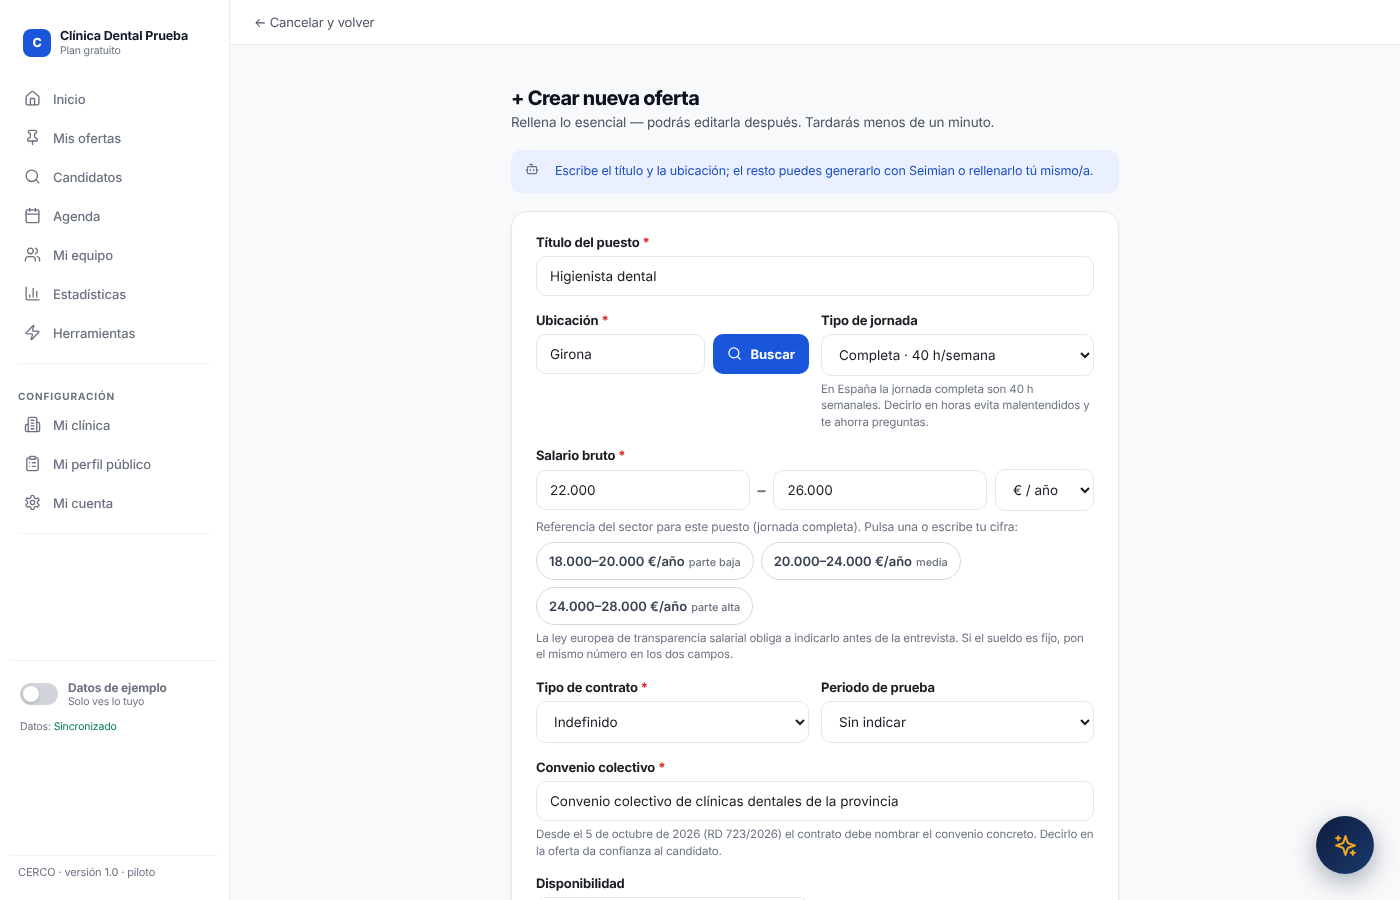
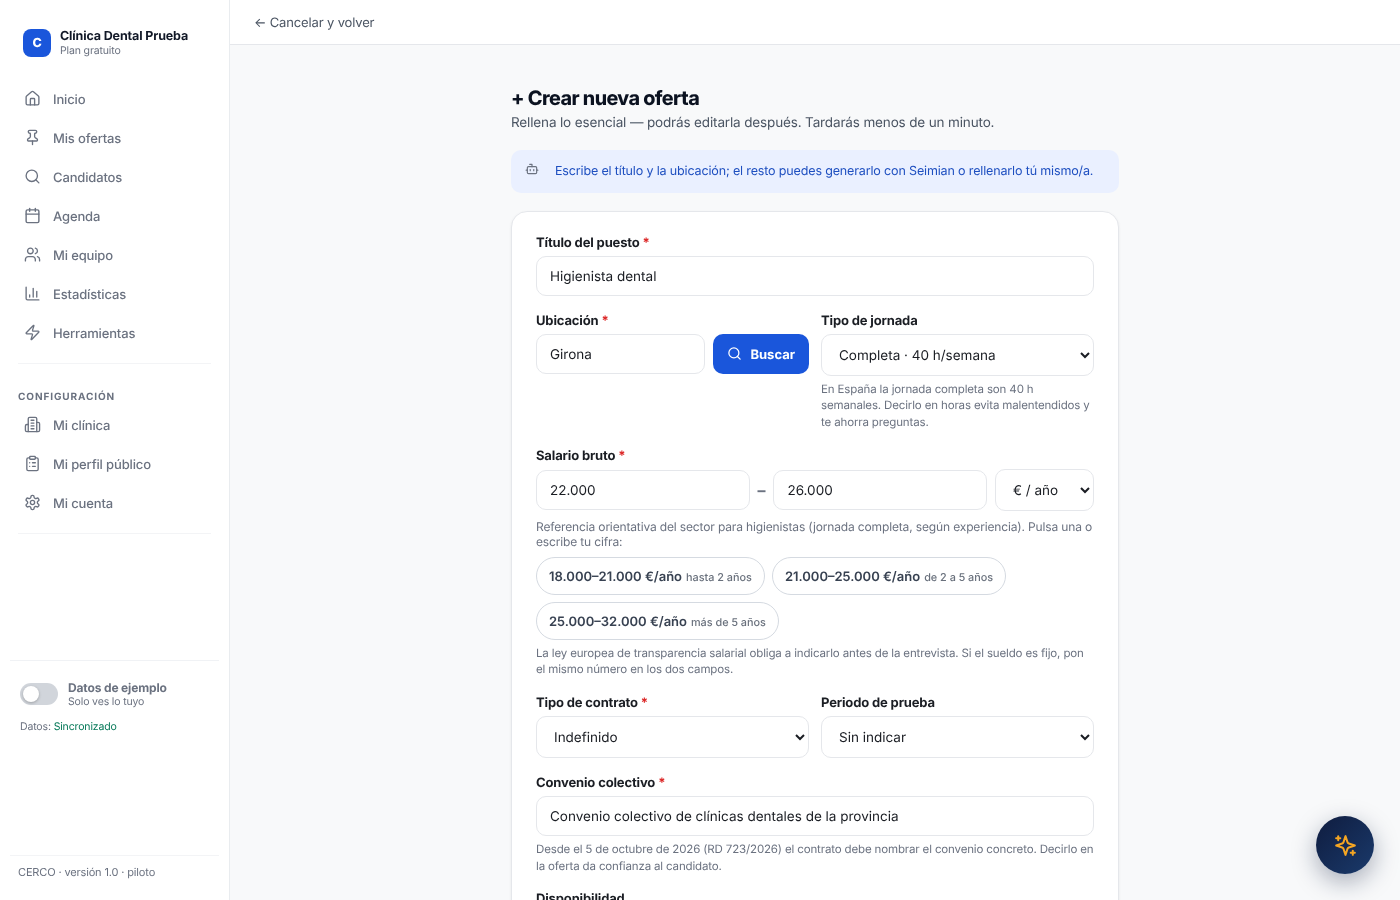
Sueldos de referencia para todas las profesiones, en un solo archivo
Las cifras están ahora en un solo sitio, public/comun/sueldos.js, que
usan los dos lados: las sugerencias al crear una oferta, la comparación
cuando ya hay sueldo escrito, Seimian de la clínica y la guía salarial
del profesional. Antes había cuatro copias con solo 5-7 grupos, y
«Cirujano/a oral y maxilofacial» no tenía ninguna.
- Tabla aprobada por Asish: tres tramos por experiencia (hasta 2 años,
  de 2 a 5, más de 5) para 12 profesiones; asesor/a de pacientes,
  gerente y prostodoncista, sin sugerencia por ahora.
- Se presenta como «Referencia orientativa del sector», y en
  odontología con la nota «Muchos cobran un porcentaje de lo que
  facturan.».
Prueba nueva (66-sueldos), que fallaba antes. 9 capturas actualizadas
(solo cambian el texto y las cifras de la referencia).

Claude-Session: https://claude.ai/code/session_01L5qSpH5ECCjMh1xfSpjWDJ

Changed region(s): [[0.3686, 0.56, 0.7679, 1.0]]

diff --git a/public/comun/sueldos.js b/public/comun/sueldos.js
@@ -1,0 +1,68 @@
+/* ================================================================
+   CERCO · SUELDOS DE REFERENCIA (un solo sitio para las cifras)
+   ----------------------------------------------------------------
+   Referencia orientativa del sector, en euros brutos al año y para
+   jornada completa. Tres tramos por experiencia:
+     [hasta 2 años], [de 2 a 5 años], [más de 5 años]
+   Para cambiar una cifra, cámbiala aquí: la usan los dos lados
+   (sugerencias al crear una oferta, la comparación del sueldo y la
+   guía salarial del profesional).
+   Sin cifras (bandas: null) = sin sugerencia por ahora.
+   «odonto: true» añade la nota de que muchos cobran un porcentaje.
+   Fuentes (revisadas en noviembre de 2026): EmpleoDental, Indeed,
+   Glassdoor, Laboria, Nubidoc, blogs de clínicas y convenios
+   provinciales. Ver PROGRESO.md.
+   ================================================================ */
+window.CERCO_SUELDOS = {
+  titulo: 'Referencia orientativa del sector',
+  notaOdonto: 'Muchos cobran un porcentaje de lo que facturan.',
+  tramos: ['hasta 2 años', 'de 2 a 5 años', 'más de 5 años'],
+  // El orden importa: se mira de arriba abajo y vale el primero que encaja con el puesto.
+  puestos: [
+    { puesto: 'Cirujano/a oral y maxilofacial', plural: 'cirujanos orales', re: /ciruj|maxilofac/i, odonto: true,
+      bandas: [[60000, 75000], [75000, 90000], [90000, 120000]] },
+    { puesto: 'Implantólogo/a', plural: 'implantólogos', re: /implant/i, odonto: true,
+      bandas: [[45000, 60000], [60000, 75000], [75000, 100000]] },
+    { puesto: 'Periodoncista', plural: 'periodoncistas', re: /periodon/i, odonto: true,
+      bandas: [[35000, 45000], [45000, 55000], [55000, 70000]] },
+    { puesto: 'Endodoncista', plural: 'endodoncistas', re: /endodon/i, odonto: true,
+      bandas: [[30000, 40000], [40000, 50000], [50000, 60000]] },
+    { puesto: 'Odontopediatra', plural: 'odontopediatras', re: /odontopediat|pediatr/i, odonto: true,
+      bandas: [[32000, 40000], [40000, 50000], [50000, 65000]] },
+    { puesto: 'Prostodoncista', plural: 'prostodoncistas', re: /prostodon/i, odonto: true,
+      bandas: null },
+    { puesto: 'Ortodoncista', plural: 'ortodoncistas', re: /ortodon/i, odonto: true,
+      bandas: [[35000, 50000], [50000, 65000], [65000, 85000]] },
+    { puesto: 'Protésico/a dental', plural: 'protésicos', re: /prot[eé]sic|laboratorio/i,
+      bandas: [[17000, 20000], [20000, 23000], [23000, 27000]] },
+    { puesto: 'Higienista dental', plural: 'higienistas', re: /higien/i,
+      bandas: [[18000, 21000], [21000, 25000], [25000, 32000]] },
+    { puesto: 'Auxiliar de clínica dental', plural: 'auxiliares', re: /auxiliar|asistente|ayudante/i,
+      bandas: [[15000, 17500], [17500, 20000], [20000, 23000]] },
+    { puesto: 'Asesor/a de pacientes', plural: 'asesores de pacientes', re: /asesor/i,
+      bandas: null },
+    { puesto: 'Recepcionista de clínica dental', plural: 'recepcionistas', re: /recepci|atenci[oó]n al paciente|administrativ/i,
+      bandas: [[16000, 18500], [18500, 21000], [21000, 25000]] },
+    { puesto: 'Gerente de clínica dental', plural: 'gerentes', re: /gerent|gerencia|direct/i,
+      bandas: null },
+    { puesto: 'Coordinador/a de clínica', plural: 'coordinadores', re: /coordina|responsable/i,
+      bandas: [[22000, 28000], [28000, 35000], [32000, 42000]] },
+    { puesto: 'Odontólogo/a general', plural: 'odontólogos', re: /odont|dentist|est[eé]tica/i, odonto: true,
+      bandas: [[30000, 40000], [40000, 55000], [55000, 70000]] }
+  ]
+};
+// La referencia de un puesto (por su título), o null si no tiene cifras.
+window.CERCO_sueldoDe = function(titulo){
+  var t = String(titulo || '');
+  if(!t.trim()) return null;
+  var l = window.CERCO_SUELDOS.puestos;
+  for(var i = 0; i < l.length; i++){
+    if(l[i].re.test(t)) return l[i].bandas ? l[i] : null;
+  }
+  return null;
+};
+// El rango completo (del mínimo del primer tramo al máximo del último)
+window.CERCO_sueldoRango = function(titulo){
+  var r = window.CERCO_sueldoDe(titulo); if(!r) return null;
+  return [r.bandas[0][0], r.bandas[r.bandas.length - 1][1]];
+};

diff --git a/public/clinica/11-seimian.js b/public/clinica/11-seimian.js
@@ -21,7 +21,8 @@
   function cerrar(){ return "var m=document.getElementById('global-chat-modal');if(m)m.remove();"; }
   function ficha(c){ return btn('Abrir a ' + e(nom(c)), cerrar() + "showScreen('portal');setTimeout(function(){abrirFichaCandidato('" + e(c.id) + "')},350)"); }
   function nota(id){ var v = ((leer('cerco_valoraciones', {})[id] || {}).v || []).filter(function(x){ return x > 0; }); return v.length ? v.reduce(function(a,b){ return a+b; }, 0) / v.length : null; }
-  var REF = { hig:['higienista',18000,32000], aux:['auxiliar',15000,23000], recep:['recepción',15000,24000], odo:['odontólogo/a',30000,90000], orto:['ortodoncista',30000,90000] };
+  // Las cifras están en un solo sitio: comun/sueldos.js. [plural, mínimo, máximo, odontología]
+  function REFde(t){ var d = window.CERCO_sueldoDe ? CERCO_sueldoDe(t) : null, r = d && CERCO_sueldoRango(t); return r ? [d.plural, r[0], r[1], d.odonto] : null; }
   var EXP = ['sin','menos de 1','1','2','3','5','más de 5','10'];
   function expN(c){ if(c.sinExperiencia) return 0; var t = norm(c.experiencia), m = t.match(/\d+/); var n = m ? +m[0] : 0; return /mas de/.test(t) ? n + 1 : (/menos/.test(t) ? 0.5 : n); }
 
@@ -103,7 +104,7 @@
     if(!l.length) return 'No tienes ninguna oferta publicada. Las que más solicitudes reciben dejan claro cinco cosas: sueldo, horario, tareas, contrato y cómo es el proceso.<br>' + btn('Crear oferta', cerrar() + "showScreen('crear-oferta')");
     var h = '';
     l.slice(0,4).forEach(function(o){
-      var n = porOferta(o.id).length, f = faltaOferta(o), g = REF[grupo(o.titulo)];
+      var n = porOferta(o.id).length, f = faltaOferta(o), g = REFde(o.titulo);
       h += '<b>' + e(o.titulo || 'Sin título') + '</b> · ' + n + ' solicitud' + (n === 1 ? '' : 'es') + '<br>';
       if(f.length) h += '• Le falta ' + f.join(', ') + '. Cada cosa que falta es gente que no solicita.<br>'; else h += '• Está completa.<br>';
       var nums = (String(o.salario || '').match(/\d{1,3}(?:[.\s]\d{3})+|\d{4,6}/g) || []).map(function(x){ return +x.replace(/[.\s]/g,''); }).filter(function(x){ return x >= 8000; });
@@ -112,10 +113,11 @@
     return h + btn('Ver mis ofertas', cerrar() + "showScreen('ofertes')");
   }
   function rSueldo(q){
-    var k = /higien/.test(q) ? 'hig' : /auxiliar/.test(q) ? 'aux' : /recep/.test(q) ? 'recep' : /ortodon/.test(q) ? 'orto' : /odontol|dentista/.test(q) ? 'odo' : null;
-    var f = function(g){ return '<b>' + g[0].charAt(0).toUpperCase() + g[0].slice(1) + '</b>: ' + g[1].toLocaleString('es-ES') + '–' + g[2].toLocaleString('es-ES') + ' € brutos/año'; };
-    return (k ? f(REF[k]) : ['hig','aux','recep','odo'].map(function(x){ return f(REF[x]); }).join('<br>'))
-      + '.<br>Es una referencia orientativa del sector a jornada completa; el convenio de tu provincia marca el mínimo. El sueldo es lo primero que mira un candidato: 6 de cada 10 no solicitan si no aparece.';
+    var f = function(g){ return '<b>' + g[0].charAt(0).toUpperCase() + g[0].slice(1) + '</b>: ' + g[1].toLocaleString('es-ES') + '–' + g[2].toLocaleString('es-ES') + ' € brutos/año' + (g[3] ? ' (' + CERCO_SUELDOS.notaOdonto.replace(/\.$/, '').toLowerCase() + ')' : ''); };
+    var uno = REFde(q);
+    var todos = (window.CERCO_SUELDOS ? CERCO_SUELDOS.puestos : []).filter(function(p){ return p.bandas; }).map(function(p){ return REFde(p.puesto); }).filter(Boolean);
+    return (uno ? f(uno) : todos.map(f).join('<br>'))
+      + '.<br>' + (window.CERCO_SUELDOS ? CERCO_SUELDOS.titulo : 'Referencia orientativa del sector') + ', a jornada completa; el convenio de tu provincia marca el mínimo. El sueldo es lo primero que mira un candidato: 6 de cada 10 no solicitan si no aparece.';
   }
   function rPreguntas(c){
     var g = grupo((c && (c.profesion || c.ofertaTitulo)) || ((activas()[0] || {}).titulo));

diff --git a/pruebas/e2e/66-sueldos.spec.js b/pruebas/e2e/66-sueldos.spec.js
@@ -1,0 +1,46 @@
+// Sueldos de referencia: salen en todas las profesiones que tienen cifras (también
+// cirugía), como «Referencia orientativa del sector», con la nota del porcentaje en
+// odontología, y salen del mismo sitio (comun/sueldos.js) en los dos lados.
+const { test, expect, nuevaVentana, vaciarEmulador } = require('../apoyo/entorno');
+const A = require('../apoyo/acciones');
+
+test('Nueva oferta: sugerencias de sueldo en todas las profesiones con cifras', async ({ browser }, testInfo) => {
+  test.skip(testInfo.project.name !== 'ordenador', 'basta con un tamaño de pantalla');
+  await vaciarEmulador();
+  const v = await nuevaVentana(browser, testInfo), c = v.page;
+  await A.registrarClinica(c, 'sueldos@prueba.es');
+  await A.configurarClinica(c);
+  await c.evaluate(() => showScreen('crear-oferta'));
+  const puestos = await c.evaluate(() => CERCO_SUELDOS.puestos.map((p) => ({ puesto: p.puesto, bandas: p.bandas, odonto: !!p.odonto })));
+  expect(puestos.length).toBe(15);
+  const sug = c.locator('#co-sal-sug');
+  for (const p of puestos) {
+    await c.fill('#co-titulo', p.puesto);
+    if (!p.bandas) { await expect(sug.locator('button')).toHaveCount(0); continue; }
+    await expect(sug).toContainText('Referencia orientativa del sector');
+    const botones = sug.locator('button');
+    await expect(botones).toHaveCount(3);
+    for (let k = 0; k < 3; k++) {
+      const [a, b] = p.bandas[k], f = (x) => x.toLocaleString('es-ES');
+      await expect(botones.nth(k)).toContainText(`${f(a)}–${f(b)} €/año`);
+    }
+    if (p.odonto) await expect(sug).toContainText('Muchos cobran un porcentaje de lo que facturan.');
+    else await expect(sug).not.toContainText('porcentaje');
+  }
+  // Cirugía, el caso que no salía
+  await c.fill('#co-titulo', 'Cirujano/a oral y maxilofacial');
+  await expect(sug.locator('button')).toHaveCount(3);
+  // Al pulsar un tramo, se rellena el sueldo
+  await sug.locator('button').first().click();
+  await expect(c.locator('#co-sal-min')).toHaveValue('60.000');
+  await expect(c.locator('#co-sal-max')).toHaveValue('75.000');
+  expect(c.erroresPagina).toEqual([]);
+
+  // El profesional ve la misma referencia (sale del mismo archivo)
+  const w = await nuevaVentana(browser, testInfo), p = w.page;
+  await p.goto('/candidato.html');
+  await p.waitForFunction(() => typeof txtGuia === 'function' && window.CERCO_SUELDOS);
+  const txt = await p.evaluate(() => txtGuia(guiaSalarial('Higienista dental', null), 'Higienista dental'));
+  expect(txt).toBe('Referencia orientativa del sector para higienistas: entre 18k y 32k € brutos al año.');
+  await v.context.close(); await w.context.close();
+});

diff --git a/public/clinica/13-formulario-oferta.js b/public/clinica/13-formulario-oferta.js
@@ -28,15 +28,7 @@
     ['Gerente de clínica dental','Recepción y gestión'],
     ['Protésico/a dental','Laboratorio']
   ];
-  var BANDAS = {
-    hig:[[18000,20000],[20000,24000],[24000,28000]],
-    aux:[[15500,17500],[17500,20000],[20000,23000]],
-    recep:[[15500,18000],[18000,21000],[21000,24000]],
-    odo:[[30000,40000],[40000,55000],[55000,70000]],
-    orto:[[35000,50000],[50000,65000],[65000,85000]],
-    coord:[[20000,24000],[24000,28000],[28000,34000]],
-    prot:[[17000,20000],[20000,24000],[24000,30000]]
-  };
+  // Las cifras están en un solo sitio: comun/sueldos.js
   function grupo(t){ try{ return CERCO_grupo(t).k; }catch(x){ return 'otros'; } }
   function disparar(el){ if(!el) return; el.dispatchEvent(new Event('input', {bubbles:true})); el.dispatchEvent(new Event('change', {bubbles:true})); }
 
@@ -101,11 +93,11 @@
     var fila = document.querySelector('#screen-crear-oferta .sal-row'); if(!fila) return;
     var box = $('co-sal-sug');
     if(!box){ box = document.createElement('div'); box.id = 'co-sal-sug'; fila.parentElement.insertBefore(box, fila.nextSibling); }
-    var b = BANDAS[grupo(($('co-titulo') || {}).value)];
+    var ref = window.CERCO_sueldoDe ? CERCO_sueldoDe(($('co-titulo') || {}).value) : null, b = ref && ref.bandas;
     if(!b){ box.innerHTML = ''; return; }
     var mi = String(($('co-sal-min') || {}).value || '').replace(/\D/g,''), ma = String(($('co-sal-max') || {}).value || '').replace(/\D/g,''), per = ($('co-sal-per') || {}).value;
-    var nombres = ['parte baja','media','parte alta'];
-    box.innerHTML = '<div style="font-size:12px;color:#6B7280;margin-top:8px;">Referencia del sector para este puesto (jornada completa). Pulsa una o escribe tu cifra:</div><div class="sal-sug" role="group" aria-label="Rangos de referencia">'
+    var nombres = CERCO_SUELDOS.tramos;
+    box.innerHTML = '<div style="font-size:12px;color:#6B7280;margin-top:8px;">' + CERCO_SUELDOS.titulo + ' para ' + ref.plural + ' (jornada completa, según experiencia).' + (ref.odonto ? ' ' + CERCO_SUELDOS.notaOdonto : '') + ' Pulsa una o escribe tu cifra:</div><div class="sal-sug" role="group" aria-label="Rangos de referencia">'
       + b.map(function(r, k){ var on = per === 'año' && +mi === r[0] && +ma === r[1]; return '<button type="button" aria-pressed="' + on + '" class="' + (on ? 'on' : '') + '" onclick="CERCO_salBanda(' + r[0] + ',' + r[1] + ')">' + num(r[0]) + '–' + num(r[1]) + ' €/año<small>' + nombres[k] + '</small></button>'; }).join('')
       + '</div>';
   }

diff --git a/public/clinica/10-lo-que-pide-el-mercado.js b/public/clinica/10-lo-que-pide-el-mercado.js
@@ -97,7 +97,8 @@
     prot:['Prótesis fija','Prótesis removible','CAD/CAM','Cerámica'],
     otros:['Atención al paciente','Trabajo en equipo','Organización del día']
   };
-  var REF = { hig:['higienistas',18000,32000], aux:['auxiliares',15000,23000], recep:['recepción',15000,24000], odo:['odontólogos',30000,90000], orto:['ortodoncistas',30000,90000] };
+  // Las cifras están en un solo sitio: comun/sueldos.js
+  function REFde(t){ var d = window.CERCO_sueldoDe ? CERCO_sueldoDe(t) : null, r = d && CERCO_sueldoRango(t); return r ? [d.plural, r[0], r[1], d.odonto] : null; }
   var OF = { turnos:[], funciones:[], proceso:'', horario:'' };
 
   function val(id){ var x = $(id); return x ? String(x.value || '').trim() : ''; }
@@ -147,11 +148,11 @@
     var h = '<b>Tu oferta responde '+ok+' de '+q.length+' preguntas que se hace un candidato</b>'
       + '<div class="mk-bar" role="progressbar" aria-valuemin="0" aria-valuemax="'+q.length+'" aria-valuenow="'+ok+'"><i style="width:'+Math.round(ok/q.length*100)+'%"></i></div>'
       + '<div class="mk-falta">' + (falta.length ? 'Te falta: ' + e(falta.join(' · ')) + '.' : 'Completa. Una oferta así recibe solicitudes de gente que ya sabe a qué viene.') + '</div>';
-    var r = REF[grupo(val('co-titulo'))], a = anual();
+    var r = REFde(val('co-titulo')), a = anual();
     if(r && a){
       var medio = (a[0] + a[1]) / 2, t1 = r[1] + (r[2]-r[1])/3, t2 = r[1] + (r[2]-r[1])*2/3;
       var donde = medio < r[1] ? 'por debajo de' : (medio < t1 ? 'en la parte baja de' : (medio < t2 ? 'en la parte media de' : (medio <= r[2] ? 'en la parte alta de' : 'por encima de')));
-      h += '<div class="mk-sal">Referencia del sector para '+r[0]+': '+r[1].toLocaleString('es-ES')+'–'+r[2].toLocaleString('es-ES')+' € brutos/año. Tu sueldo está <b>'+donde+'</b> ese rango.'+(medio < t1 ? ' El sueldo es lo primero que decide: si no puedes subirlo, compénsalo con horario o formación y dilo.' : '')+' <span style="color:#6B7280;">Orientativo.</span></div>';
+      h += '<div class="mk-sal">'+CERCO_SUELDOS.titulo+' para '+r[0]+': '+r[1].toLocaleString('es-ES')+'–'+r[2].toLocaleString('es-ES')+' € brutos/año. Tu sueldo está <b>'+donde+'</b> ese rango.'+(medio < t1 ? ' El sueldo es lo primero que decide: si no puedes subirlo, compénsalo con horario o formación y dilo.' : '')+(r[3] ? ' '+CERCO_SUELDOS.notaOdonto : '')+'</div>';
     }
     box.innerHTML = h;
   }

diff --git a/public/profesional/02-lideres-y-efecto-rebote.js b/public/profesional/02-lideres-y-efecto-rebote.js
@@ -299,10 +299,7 @@ function ofertaParaMi(o){
 }
 
 /* ---------- 7. guía salarial (con las ofertas reales de CERCO) ---------- */
-var REF_SALARIO = { // referencia del sector, orientativa (EmpleoDental 2026)
-  'Auxiliar de clínica dental':[15000,23000], 'Recepción y atención al paciente':[15000,24000],
-  'Higienista dental':[18000,32000], 'Odontólogo/a':[30000,90000], 'Ortodoncista':[30000,90000]
-};
+// Las cifras de referencia están en un solo sitio: comun/sueldos.js
 function rolDe(o){ for(var k in PROF_RE) if(PROF_RE[k].test(o.titulo || '')) return k; return null; }
 function anualDe(txt){
   var t = String(txt || ''); if(!/año/i.test(t)) return null;
@@ -322,7 +319,7 @@ function guiaSalarial(rol, prov){
     var med = function(a){ return a[Math.floor((a.length-1)/2)]; };
     return { min:med(mins), max:med(maxs), n:base.length, donde: base === enProv ? prov : 'España', fuente:'cerco' };
   }
-  var r = REF_SALARIO[rol];
+  var r = window.CERCO_sueldoRango ? CERCO_sueldoRango(rol) : null;
   return r ? { min:r[0], max:r[1], n:0, donde:'España', fuente:'sector' } : null;
 }
 function txtGuia(g, rol){
@@ -330,7 +327,8 @@ function txtGuia(g, rol){
   var quien = {'Higienista dental':'higienistas','Auxiliar de clínica dental':'auxiliares','Odontólogo/a':'odontólogos','Ortodoncista':'ortodoncistas','Recepción y atención al paciente':'recepción','Protésico/a dental':'protésicos','Coordinación o gerencia de clínica':'coordinación'}[rol] || 'este puesto';
   return g.fuente === 'cerco'
     ? 'En CERCO, las ofertas de ' + quien + ' en ' + g.donde + ' pagan entre ' + milesK(g.min) + ' y ' + milesK(g.max) + ' € brutos al año (mediana de ' + g.n + ' ofertas).'
-    : 'Referencia del sector para ' + quien + ': entre ' + milesK(g.min) + ' y ' + milesK(g.max) + ' € brutos al año (orientativo, EmpleoDental 2026).';
+    : CERCO_SUELDOS.titulo + ' para ' + ((window.CERCO_sueldoDe && (CERCO_sueldoDe(rol) || {}).plural) || quien) + ': entre ' + milesK(g.min) + ' y ' + milesK(g.max) + ' € brutos al año.'
+      + ((window.CERCO_sueldoDe && (CERCO_sueldoDe(rol) || {}).odonto) ? ' ' + CERCO_SUELDOS.notaOdonto : '');
 }
 
 /* ---------- 8. solicitud: destacada, invitada, rebote ---------- */

diff --git a/index.html b/index.html
@@ -2401,6 +2401,7 @@
 
 <script src="./clinica/04-clinica-y-candidato.js"></script>
 <script src="./comun/geo.js"></script>
+<script src="./comun/sueldos.js"></script>
 <script src="./comun/aviso-campo-vacio.js"></script>
 <script src="./clinica/05-kilometros.js"></script>
 <script src="./clinica/06-lideres.js"></script>

diff --git a/candidato.html b/candidato.html
@@ -437,6 +437,7 @@
 <div id="toast"></div>
 
 <script src="./comun/geo.js"></script>
+<script src="./comun/sueldos.js"></script>
 <script src="./comun/aviso-campo-vacio.js"></script>
 <script src="./profesional/01a-base-y-nube.js"></script>
 <script src="./profesional/01b-estado-navegacion-y-acceso.js"></script>
